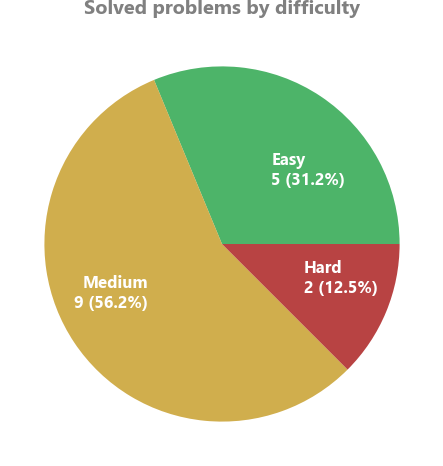
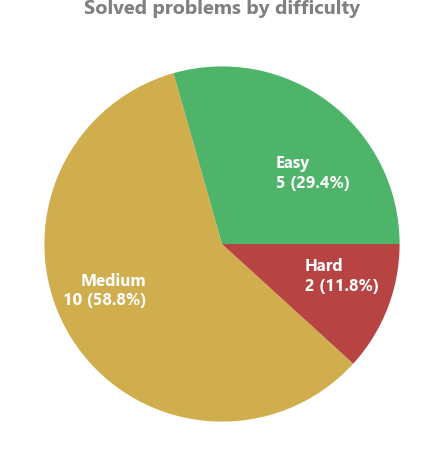
solved problem 17

diff --git a/17LetterCombinationsPhone/17LetterCombinationsPhone.py b/17LetterCombinationsPhone/17LetterCombinationsPhone.py
@@ -1,0 +1,29 @@
+# Complexity O(4^n)
+
+class Solution:
+    def letterCombinations(self, digits: str) -> list[str]:
+        if digits == "":
+            return []
+        mapping = {
+            "2": "abc",
+            "3": "def",
+            "4": "ghi",
+            "5": "jkl",
+            "6": "mno",
+            "7": "pqrs",
+            "8": "tuv",
+            "9": "wxyz"
+        }
+        queue = [""]
+        final = []
+        while len(queue) > 0:
+            curr = queue.pop(0)
+            if len(curr) == len(digits):
+                final.append(curr)
+            else:
+                for c in mapping[digits[len(curr)]]:
+                    queue.append(curr+c)
+        return final
+
+sol = Solution()
+print(sol.letterCombinations("23"))

diff --git a/README.md b/README.md
@@ -1,7 +1,7 @@
 # Leetcode solutions
 
-[![](https://img.shields.io/badge/Problems_solved-15-2ea44f)]()
-[![](https://img.shields.io/badge/Average_time_per_problem-25.26_min-2ea44f)]()
+[![](https://img.shields.io/badge/Problems_solved-17-2ea44f)]()
+[![](https://img.shields.io/badge/Average_time_per_problem-36.52_min-2ea44f)]()
 
 This is a repository of my solutions to the [Leetcode](https://leetcode.com/problems/) problems in order.
 
@@ -16,3 +16,4 @@ This is a repository of my solutions to the [Leetcode](https://leetcode.com/prob
 A list of problems to revisit and why:
  - Problem 10: Completed with native Python regex, but did not solve without native regex as was likely the intent of the problem
  - Problem 15: Unable to figure out fully optimized ThreeSum algorithm
+ - Problem 16: Unable to solve within optimization requirements
